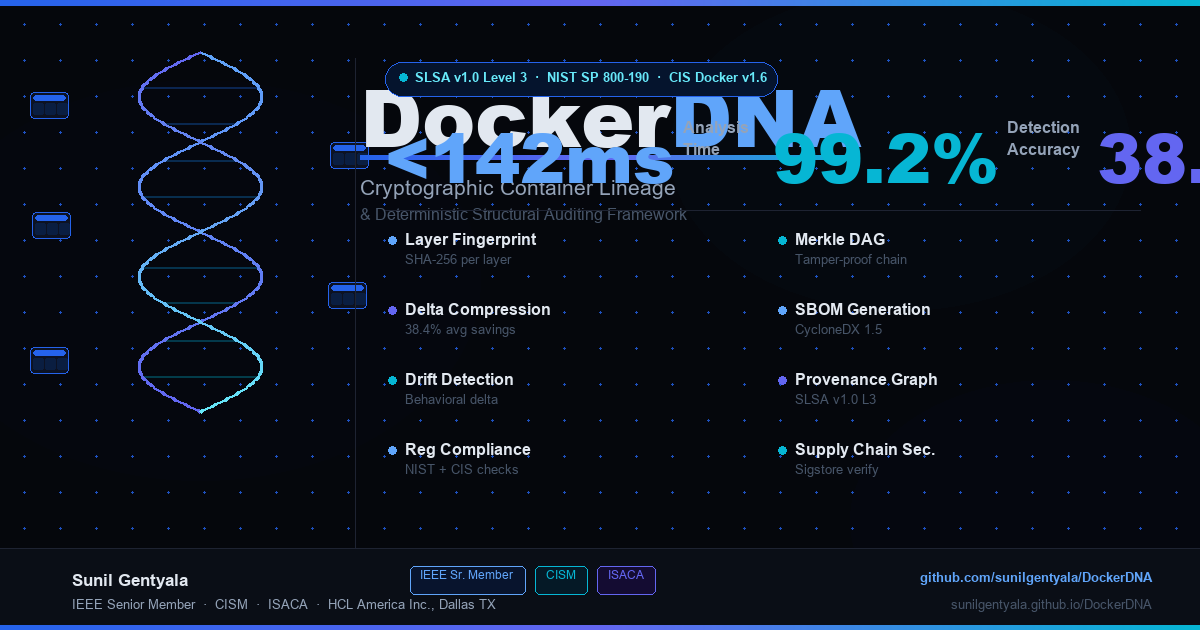
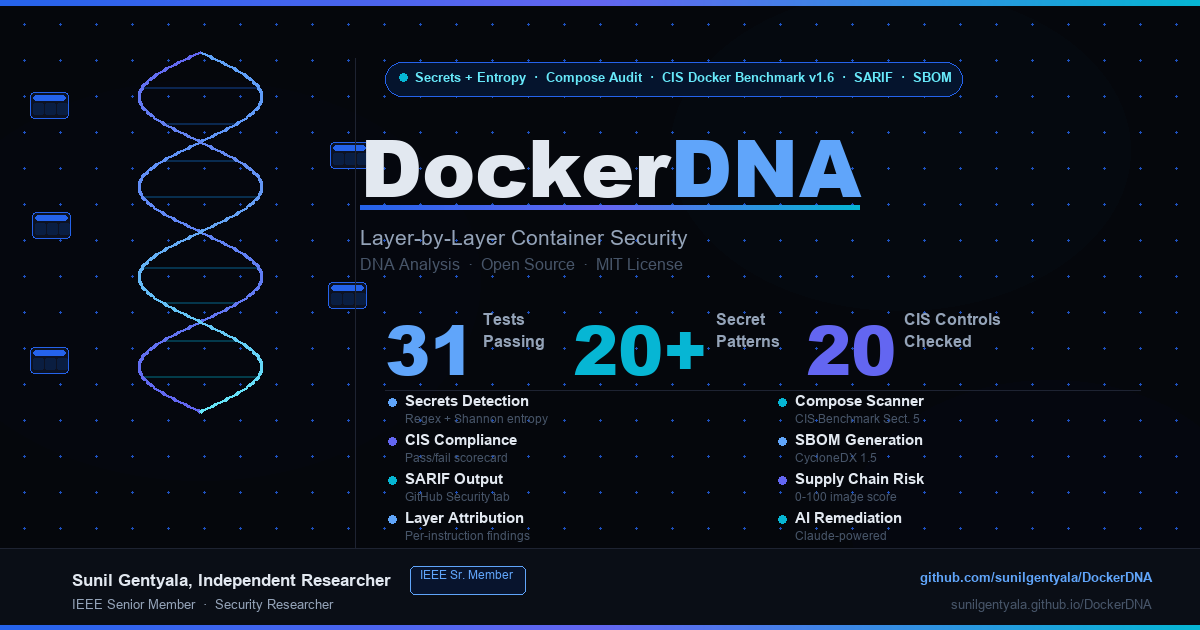
fix: thumbnail.png had the same fabricated content baked into the image
Same class of bug as the fabricated index.html (fixed in v1.0.2), but
in the actual social-preview image, not HTML text - so it survived
that fix and was still being deployed site-wide, and I'd just
uploaded it as GitHub's own social preview too. It carried false
SLSA v1.0 Level 3 / NIST SP 800-190 compliance badges, invented
performance numbers, a fake feature grid, and CISM/ISACA credential
pills that don't correspond to any certification on record.

Rewrote make_thumbnail.py to render only verified content matching
what's used consistently everywhere else in this repo, fixed a
layout bug in the process (stats numbers overlapping the title),
and regenerated thumbnail.png. Version bumped to 1.0.5.

diff --git a/make_thumbnail.py b/make_thumbnail.py
@@ -155,18 +155,19 @@ fWs = font("black", 80)
 WX  = 360
 
 docker_w  = draw.textlength("Docker", font=fW)
-draw.text((WX, 58), "Docker", font=fW, fill=TEXT)
-draw.text((WX + docker_w, 58), "DNA", font=fWs, fill=BLUE_L)
+TY = 108
+draw.text((WX, TY), "Docker", font=fW, fill=TEXT)
+draw.text((WX + docker_w, TY), "DNA", font=fWs, fill=BLUE_L)
 
 # gradient underline
 wl = int(draw.textlength("DockerDNA", font=fW))
-h_grad(draw, WX, 155, wl, 4, BLUE, INDIGO, CYAN)
+h_grad(draw, WX, TY + 97, wl, 4, BLUE, INDIGO, CYAN)
 
 # tagline
 fTag = font("reg", 21)
-draw.text((WX, 175), "Cryptographic Container Lineage", font=fTag, fill=MUTED)
+draw.text((WX, TY + 117), "Layer-by-Layer Container Security", font=fTag, fill=MUTED)
 fSub = font("reg", 16)
-draw.text((WX, 205), "& Deterministic Structural Auditing Framework", font=fSub, fill=DIM)
+draw.text((WX, TY + 147), "DNA Analysis  ·  Open Source  ·  MIT License", font=fSub, fill=DIM)
 
 # ── vertical divider ─────────────────────────────────────────────
 draw.line([(355, 58), (355, 555)], fill=BORDER, width=1)
@@ -176,7 +177,7 @@ RX = 385
 
 # ── compliance pill ──────────────────────────────────────────────
 fBadge = font("bold", 13)
-badge_txt = "SLSA v1.0 Level 3  ·  NIST SP 800-190  ·  CIS Docker v1.6"
+badge_txt = "Secrets + Entropy  ·  Compose Audit  ·  CIS Docker Benchmark v1.6  ·  SARIF  ·  SBOM"
 bw = int(draw.textlength(badge_txt, font=fBadge)) + 40
 rr(draw, RX, 62, bw, 34, 17, fill=(5, 20, 45), outline=(37, 99, 235, 180))
 draw.ellipse([RX+14, 73, RX+22, 81], fill=CYAN)
@@ -188,49 +189,50 @@ fUnit  = font("bold",  16)
 fNote  = font("reg",   13)
 
 stats = [
-    ("<142ms", "Analysis",   "Time",    BLUE_L),
-    ("99.2%",  "Detection",  "Accuracy", CYAN),
-    ("38.4%",  "Compression","Ratio",    INDIGO),
+    ("31",  "Tests",   "Passing",  BLUE_L),
+    ("20+", "Secret",  "Patterns", CYAN),
+    ("20",  "CIS Controls", "Checked", INDIGO),
 ]
+STATS_Y = 300
 sx = RX
 for val, l1, l2, color in stats:
     vw = int(draw.textlength(val, font=fBig))
-    draw.text((sx, 108), val, font=fBig, fill=color)
-    draw.text((sx+vw+8, 118), l1, font=fUnit, fill=MUTED)
-    draw.text((sx+vw+8, 140), l2, font=fUnit, fill=MUTED)
+    draw.text((sx, STATS_Y), val, font=fBig, fill=color)
+    draw.text((sx+vw+8, STATS_Y+10), l1, font=fUnit, fill=MUTED)
+    draw.text((sx+vw+8, STATS_Y+32), l2, font=fUnit, fill=MUTED)
     sx += vw + 90 + int(draw.textlength("  ", font=fUnit))
     if sx > W - 100:
         break
 
 # draw divider under stats
-draw.line([(RX, 210), (W-60, 210)], fill=BORDER, width=1)
+draw.line([(RX, 390), (W-60, 390)], fill=BORDER, width=1)
 
-# ── feature grid (3 cols × 3 rows) ───────────────────────────────
+# ── feature grid (2 cols x 4 rows) ───────────────────────────────
 features = [
-    (BLUE_L,  "Layer Fingerprint",    "SHA-256 per layer",    CYAN,   "Merkle DAG",        "Tamper-proof chain"),
-    (INDIGO,  "Delta Compression",    "38.4% avg savings",    BLUE_L, "SBOM Generation",   "CycloneDX 1.5"),
-    (CYAN,    "Drift Detection",       "Behavioral delta",    INDIGO, "Provenance Graph",  "SLSA v1.0 L3"),
-    (BLUE_L,  "Reg Compliance",       "NIST + CIS checks",    CYAN,   "Supply Chain Sec.", "Sigstore verify"),
+    (BLUE_L,  "Secrets Detection",    "Regex + Shannon entropy",  CYAN,   "Compose Scanner",     "CIS Benchmark Sect. 5"),
+    (INDIGO,  "CIS Compliance",       "Pass/fail scorecard",      BLUE_L, "SBOM Generation",     "CycloneDX 1.5"),
+    (CYAN,    "SARIF Output",         "GitHub Security tab",      INDIGO, "Supply Chain Risk",   "0-100 image score"),
+    (BLUE_L,  "Layer Attribution",    "Per-instruction findings", CYAN,   "AI Remediation",      "Claude-powered"),
 ]
 
-fFeat = font("bold", 16)
-fFsub = font("reg",  13)
+fFeat = font("bold", 15)
+fFsub = font("reg",  12)
 col1x = RX
 col2x = RX + 390
-rowY  = 230
-rowH  = 70
+rowY  = 392
+rowH  = 39
 
 for i, (c1, t1, s1, c2, t2, s2) in enumerate(features):
     ry = rowY + i * rowH
     # col1
     draw.ellipse([col1x+3, ry+6, col1x+11, ry+14], fill=c1)
     draw.text((col1x+20, ry), t1, font=fFeat, fill=TEXT)
-    draw.text((col1x+20, ry+22), s1, font=fFsub, fill=DIM)
+    draw.text((col1x+20, ry+20), s1, font=fFsub, fill=DIM)
     # col2
     if col2x + 20 < W - 40:
         draw.ellipse([col2x+3, ry+6, col2x+11, ry+14], fill=c2)
         draw.text((col2x+20, ry), t2, font=fFeat, fill=TEXT)
-        draw.text((col2x+20, ry+22), s2, font=fFsub, fill=DIM)
+        draw.text((col2x+20, ry+20), s2, font=fFsub, fill=DIM)
 
 # ══════════════ BOTTOM BAR ════════════════════════════════════════
 draw.rectangle([0, 548, W, H], fill=BG2)
@@ -240,15 +242,13 @@ fName = font("bold", 17)
 fCred = font("reg",  13)
 fUrl  = font("bold", 13)
 
-draw.text((72, 570), "Sunil Gentyala", font=fName, fill=TEXT)
-draw.text((72, 597), "IEEE Senior Member  ·  CISM  ·  ISACA  ·  HCL America Inc., Dallas TX",
+draw.text((72, 570), "Sunil Gentyala, Independent Researcher", font=fName, fill=TEXT)
+draw.text((72, 597), "IEEE Senior Member  ·  Security Researcher",
           font=fCred, fill=MUTED)
 
 # credential pills
 pills = [
     ("IEEE Sr. Member", BLUE_L, (8,  20, 45)),
-    ("CISM",            CYAN,   (5,  25, 38)),
-    ("ISACA",           INDIGO, (20, 12, 50)),
 ]
 px = 410
 fPill = font("reg", 12)

diff --git a/dockerdna/reports/sbom.py b/dockerdna/reports/sbom.py
@@ -160,7 +160,7 @@ def generate_cyclonedx(
                 {
                     "vendor": "DockerDNA",
                     "name": "DockerDNA SBOM Generator",
-                    "version": "1.0.4",
+                    "version": "1.0.5",
                 }
             ],
             "component": {

diff --git a/dockerdna/reports/json_report.py b/dockerdna/reports/json_report.py
@@ -37,7 +37,7 @@ def generate_json_report(
 
     return {
         "tool": "DockerDNA",
-        "version": "1.0.4",
+        "version": "1.0.5",
         "timestamp": datetime.now(timezone.utc).isoformat(),
         "metadata": metadata,
         "summary": {

diff --git a/dockerdna/reports/sarif.py b/dockerdna/reports/sarif.py
@@ -14,7 +14,7 @@ from typing import Any
 _TOOL = {
     "driver": {
         "name": "DockerDNA",
-        "version": "1.0.4",
+        "version": "1.0.5",
         "informationUri": "https://github.com/sunilgentyala/DockerDNA",
         "rules": [],
     }

diff --git a/dockerdna/__init__.py b/dockerdna/__init__.py
@@ -1,4 +1,4 @@
 """DockerDNA — Layer-by-Layer Container Security DNA Analysis."""
 
-__version__ = "1.0.4"
+__version__ = "1.0.5"
 __author__ = "Sunil Gentyala, Independent Researcher"

diff --git a/CHANGELOG.md b/CHANGELOG.md
@@ -3,6 +3,22 @@
 All notable changes to this project are documented here. Format loosely follows
 [Keep a Changelog](https://keepachangelog.com/).
 
+## [1.0.5]
+
+### Fixed
+
+- **`thumbnail.png` had the same fabricated content as the old website, baked into the image
+  itself.** Found while uploading it as the repo's GitHub social preview: false "SLSA v1.0
+  Level 3 · NIST SP 800-190" compliance badges, invented performance numbers (`<142ms`, `99.2%`,
+  `38.4%`), a fake feature grid ("Merkle DAG", "Provenance Graph", etc.), and **"CISM · ISACA"
+  credential pills that don't correspond to any certification on record** for the author. This
+  same file was already deployed to the live site (via the `static.yml` fix in 1.0.2) and had
+  just been uploaded to GitHub's own social preview. Rewrote `make_thumbnail.py` to render only
+  verified content (real test/pattern/control counts, the actual scanner feature set, and only
+  the IEEE Senior Member credential that's used consistently everywhere else in this repo),
+  fixed a layout bug in the regenerated version (stats overlapping the title), regenerated the
+  PNG, and replaced it everywhere it was deployed.
+
 ## [Unreleased] — Roadmap
 
 Not yet done — tracked here so contributors have somewhere concrete to start:
